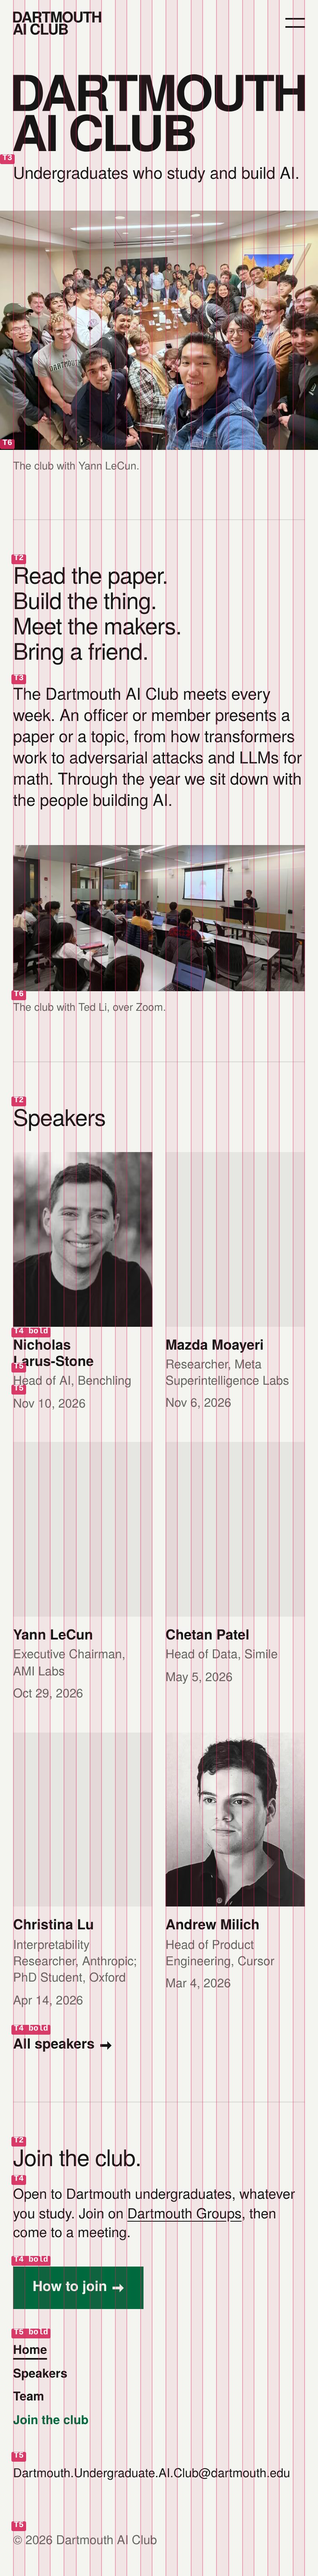
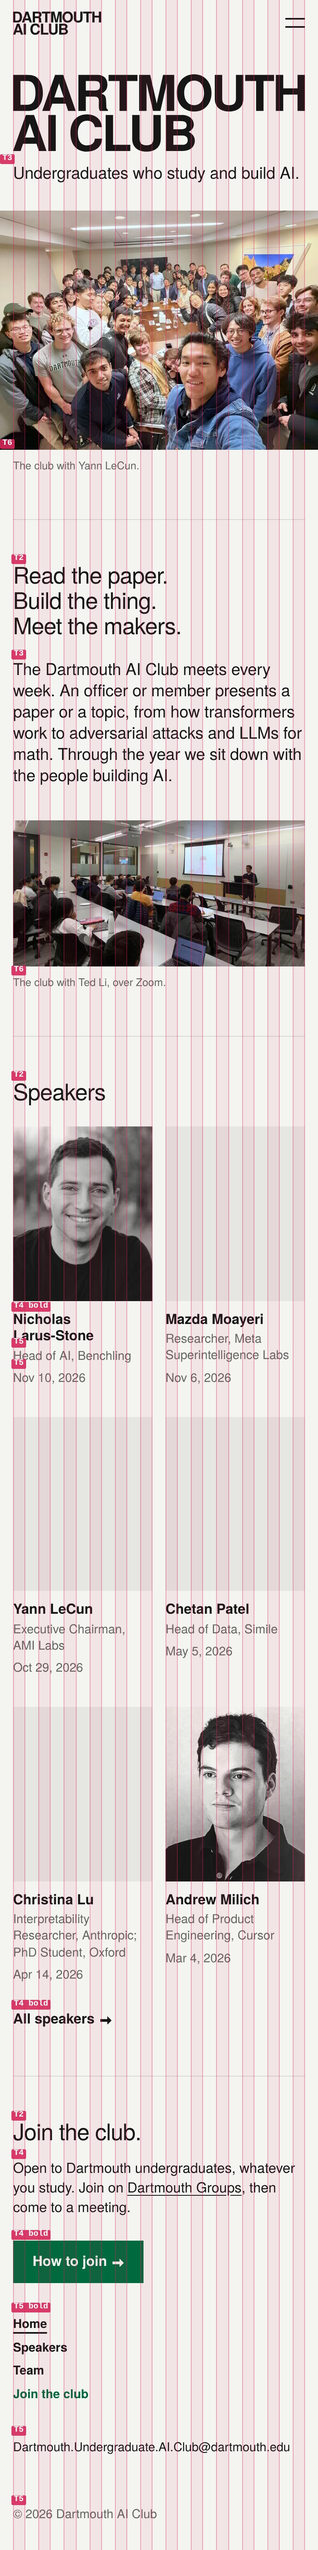
Officers for Fall 2026; About heading in three lines
- Team: the fall roster (Paul Cherian, Annie Yuan, Benjamin Wang, Charlie Peers,
  Eddie Bae, Sean Noh) under "Officers, Fall 2026". New officers show "Officer"
  until their roles are confirmed; LinkedIn links found by search are flagged
  for checking on the review page.
- Build: officers_term must read like "Fall 2026" or "2026-27", never "26F".
- Home: "Bring a friend." cut from the About heading.
- README and review page: update the officers every term.
- System sheets regenerated from the new build.

Claude-Session: https://claude.ai/code/session_01GjEQw77KEFQyasUq7q777C

diff --git a/README.md b/README.md
@@ -10,9 +10,9 @@ The talks, the people, the links and the contact live in `content/`: edit the JS
 | --- | --- |
 | `content/site.json` | Tagline, description for search results, contact email, the club's Dartmouth Groups page (where people join), the club's X and YouTube links, hero photo and caption |
 | `content/speakers.json` | Every guest talk: who they are, what they do, when they came. The site sorts them by date |
-| `content/team.json` | The officers (name, role, and `linkedin` / `x` profile links), their academic year (`officers_term`), and the faculty advisors (name, school or department). The team page is a list: no photos. It shows the president first, then everyone else by last name, whatever the order in the file |
+| `content/team.json` | The officers (name, role, and `linkedin` / `x` profile links), the term they serve (`officers_term`, written like “Fall 2026”), and the faculty advisors (name, school or department). The team page is a list: no photos. It shows the president first, then everyone else by last name, whatever the order in the file |
 
-When the officers change, update `officers_term` and `officers` in `content/team.json`. The contact in `content/site.json` is the club's own mailbox, so it stays. Check the faculty advisors at COSO's renewal each October, when the club reports them: the names here should match.
+Every term, update `officers_term` (“Winter 2027”) and `officers` in `content/team.json`, even when nobody changed: the heading names the term, so a past one dates the page. The contact in `content/site.json` is the club's own mailbox, so it stays. Check the faculty advisors at COSO's renewal each October, when the club reports them: the names here should match.
 
 What is not on the site, on purpose: the meeting night and room, a member count, and claims nobody can check. Facts still waiting for an officer's answer are listed on the review page of the preview. The night and room change every term, so /join says they are posted in the club's GroupMe, and that members get its link on Dartmouth Groups (the link itself is never on the site); a number nobody keeps up to date costs more trust than it earns. The build refuses `meetings`, `members` or `claims` in `site.json`, and refuses placeholder words (TEMP, TBD, “to come”, “to confirm”…) in anything a page shows.
 
